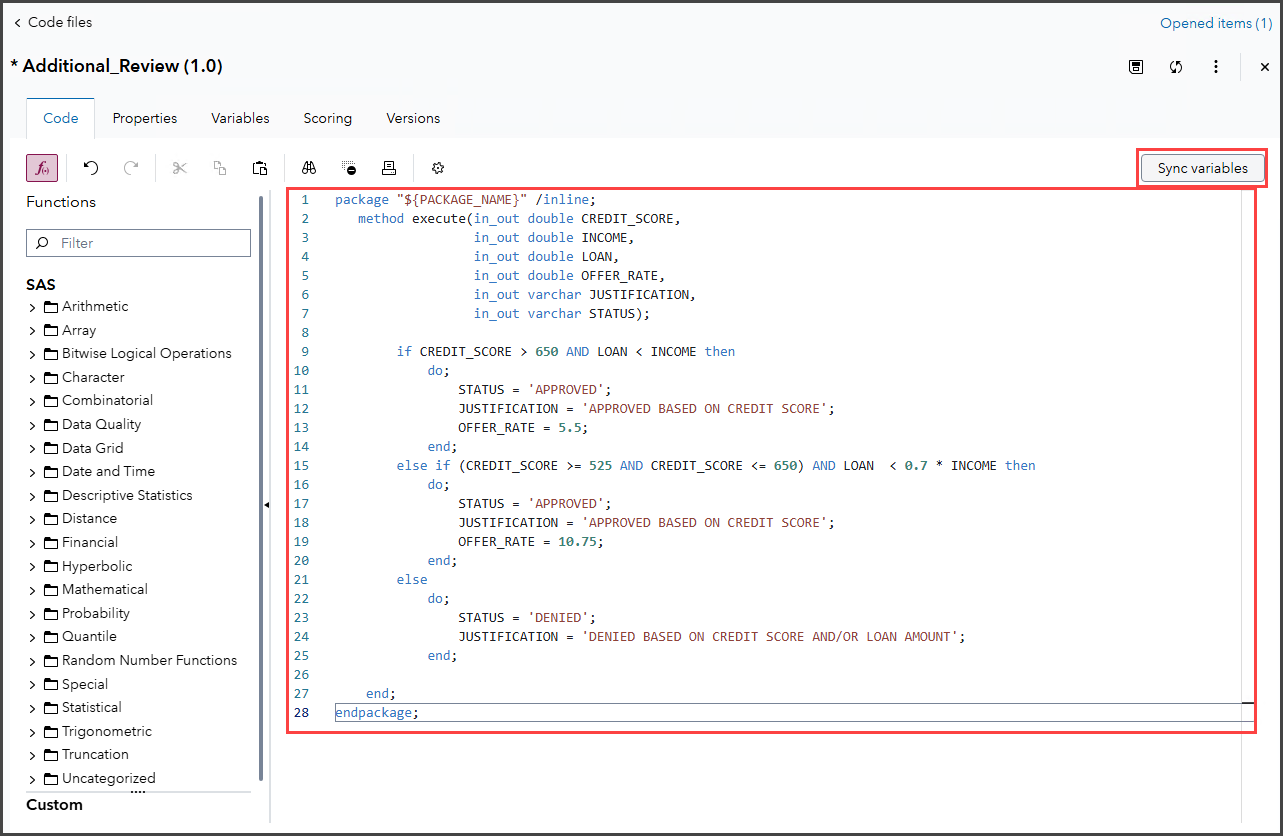
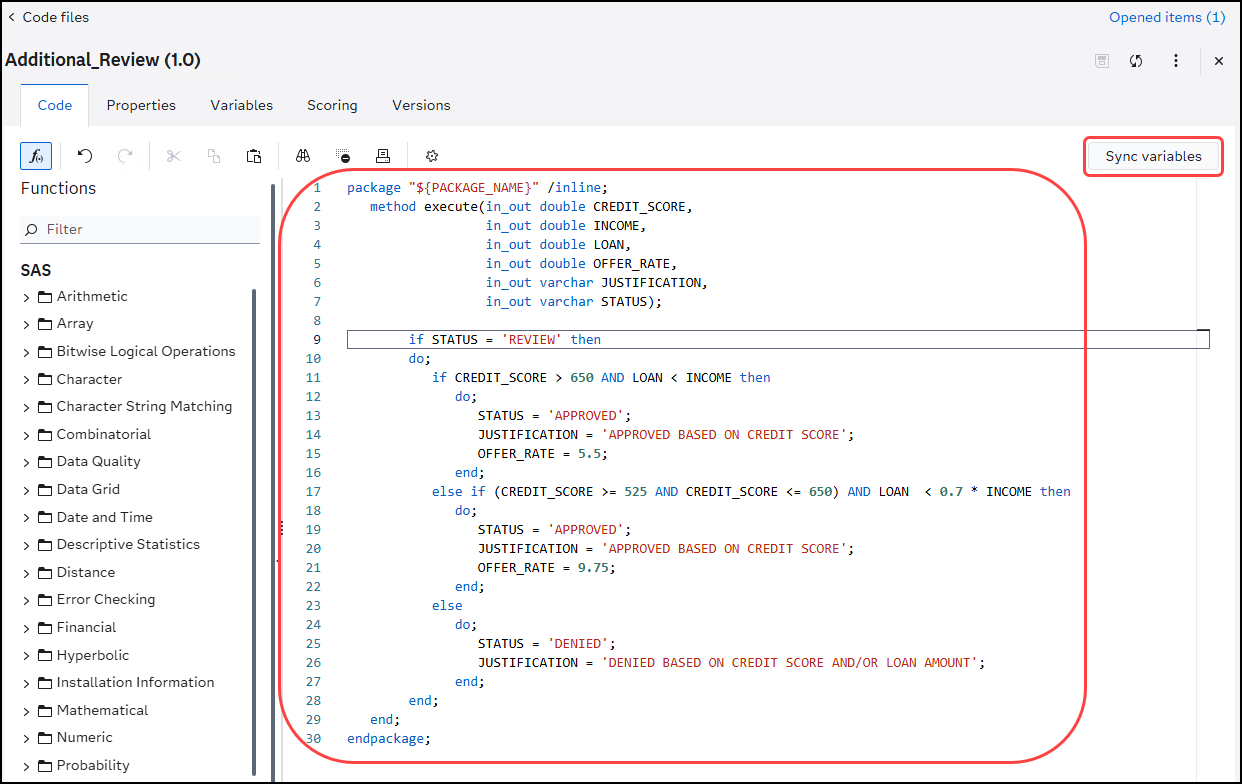
updated DS2 code steps

diff --git a/Getting_Started_with_SAS_Intelligent_Decisioning.md b/Getting_Started_with_SAS_Intelligent_Decisioning.md
@@ -192,12 +192,12 @@ Select **No** when prompted about accepting *Admin* privileges.
 
    ![Test output](images/TestOutput.png)
 
-1. Click **x** to close the test results, test, and the rule set.
+1. Click **x** to close the test and the rule set.
 
 <br>
 
 ## Create and Test a DS2 Code File
-1. Select ![Code File Icon](images/CodeFileIcon.png) to open the **Code files** page.
+1. Select ![Code Files Icon](images/CodeFileIcon.png) to open the **Code files** page.
 1. Click **New code file** to create a new code file.
 1. Enter the following information:
     * Name: **Additional_Review**
@@ -219,7 +219,7 @@ Select **No** when prompted about accepting *Admin* privileges.
                       in_out varchar JUSTIFICATION,
                       in_out varchar STATUS);
 
-            if STATUS == 'REVIEW' then
+            if STATUS = 'REVIEW' then
             do;
                if CREDIT_SCORE > 650 AND LOAN < INCOME then
                   do;
@@ -243,9 +243,10 @@ Select **No** when prompted about accepting *Admin* privileges.
     endpackage;
     ```
 
+1. Click ![Save button](images/SaveButton.png) to save the code file.
+
      ![DS2 Code 2 - copy/paste](images/DS2Code2.png)
 
-1. Click ![Save button](images/SaveButton.png) to save the code file.
 1. Click **Sync variables** to add the variables declared in the DS2 code to the *Variables* tab for for the code file.
 1. Select the **Variables** tab to confirm the variables were added.
 
@@ -257,7 +258,6 @@ Select **No** when prompted about accepting *Admin* privileges.
    * Name: **Additional_Review_Test**
    * Description: **Test 1**
    * Location: **/Public**
-      > &#9755; Select ![Folder icon](images/FolderIcon.png) to navigate to *SAS Content/SID Workshop/Tests*.
    * Input table: **LOAN_APPLICANTS**.
 
    ![Test DS2 code](images/TestDS2Code.png)
@@ -286,7 +286,7 @@ Select **No** when prompted about accepting *Admin* privileges.
 
    ![DS2 test output](images/DS2TestOutput.png)
 
-1. Click **x** to close the test results, test, and the code file.
+1. Click **x** to close the test and the code file.
 
 <br>
 
@@ -365,7 +365,7 @@ Select **No** when prompted about accepting *Admin* privileges.
 
 1. ***View results in VA***
 1. x
-1. Click **x** to close the test results, test, and the decision.
+1. Click **x** to close the test and the decision.
 
 <br>
 
